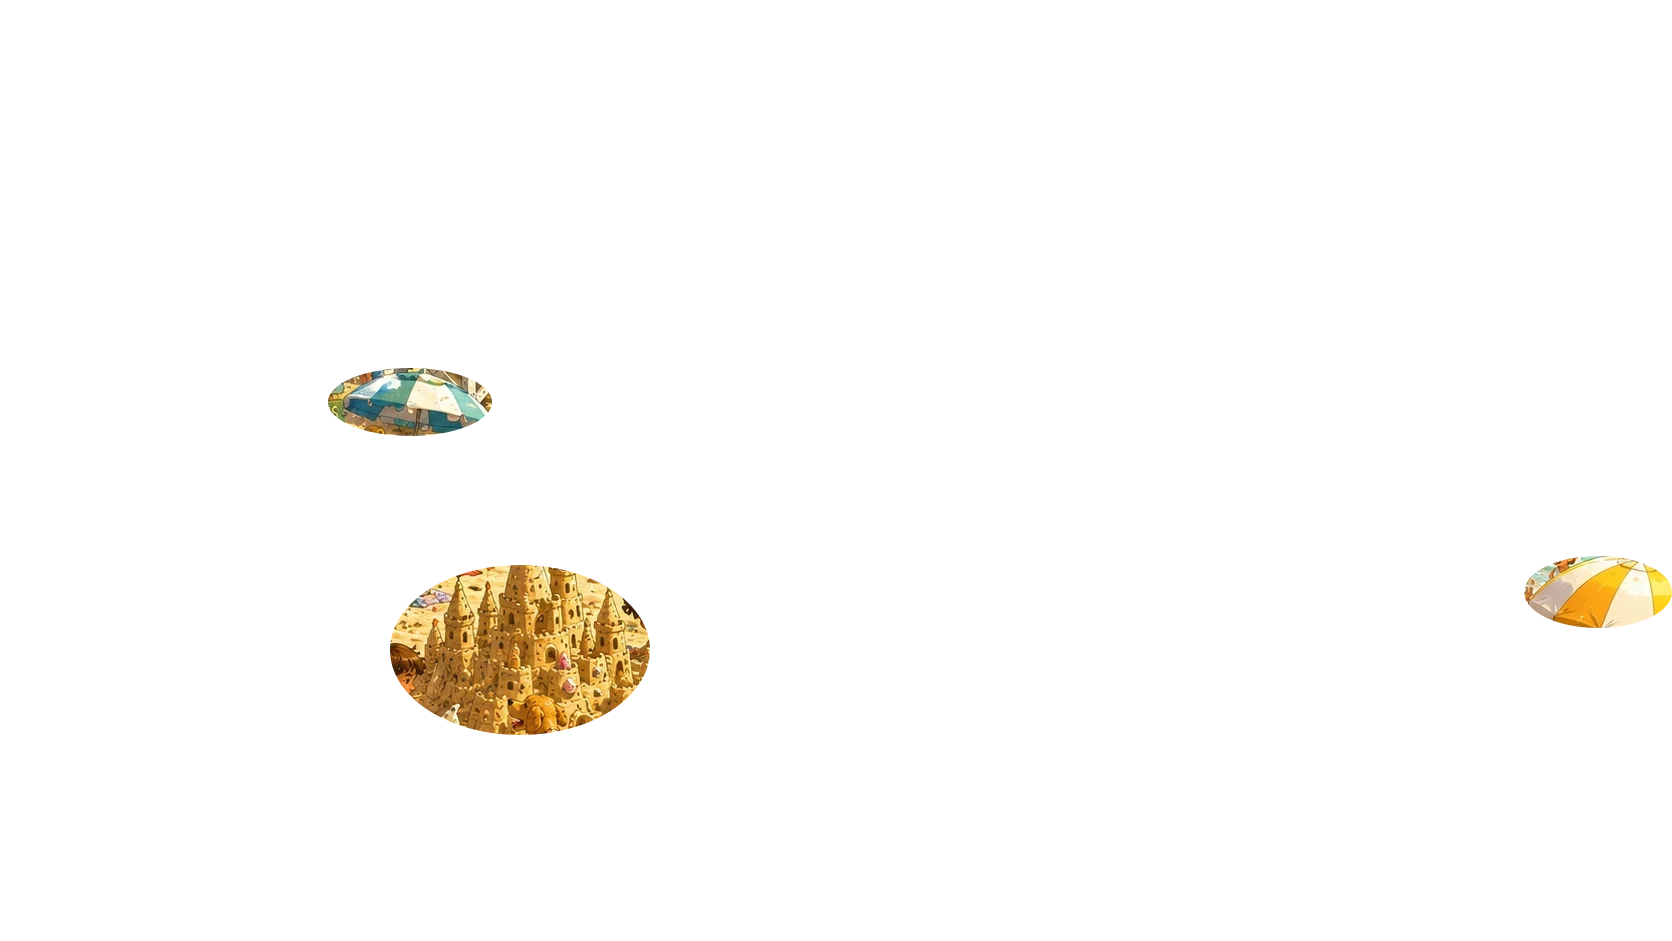
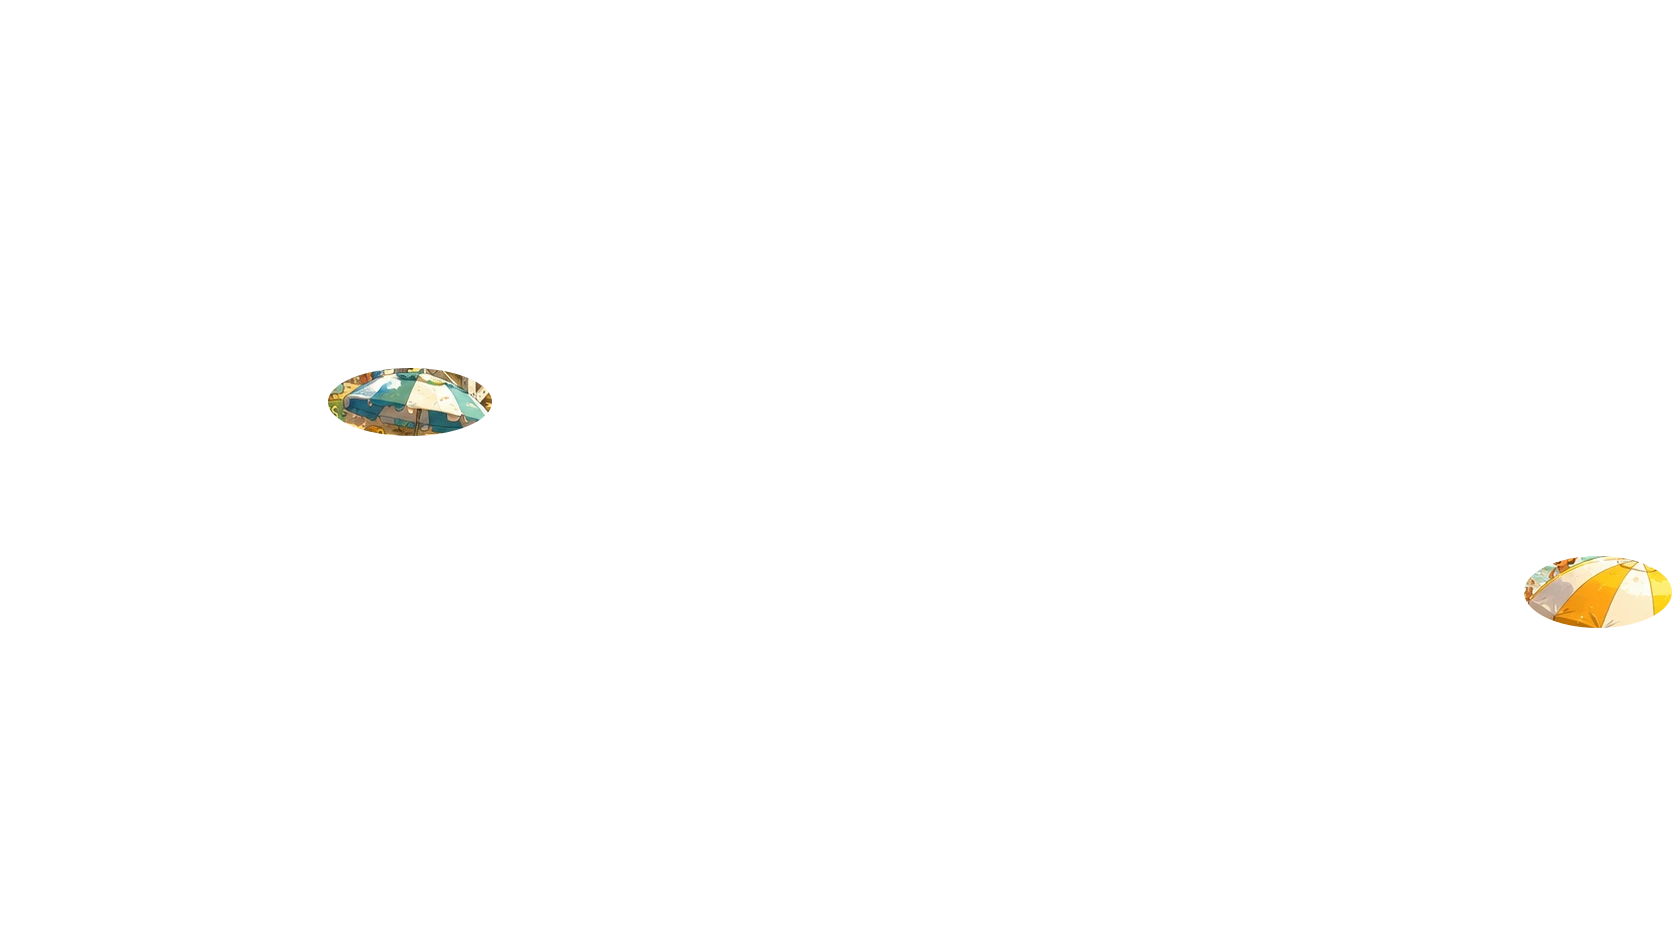
Slot patches: inpaint the child into a context crop of the world and keep only the changed pixels; export/import tool, rect-aware image sprites and renderer, landing reads the patch when present

Changed region(s): [[0.2177, 0.5855, 0.4043, 0.8013]]

diff --git a/scripts/slot-patch.ts b/scripts/slot-patch.ts
@@ -1,0 +1,162 @@
+/**
+ * Slot patches — how a child gets painted INTO a pre-rendered world.
+ *
+ * Backgrounds are rendered once. The only thing generated per child is a small
+ * "patch": the context crop around a hiding slot with the child painted into it
+ * by an image model (inpainting), which we then reduce to the changed pixels
+ * only. Placed back at the same coordinates it blends perfectly — same light,
+ * same style, real occlusion — and it is tiny (one 300–500px image per spot).
+ *
+ *   npx tsx scripts/slot-patch.ts export beach sandcastle A
+ *     → work/patches/beach-sandcastle-A.crop.png   (give this to the image model)
+ *       work/patches/beach-sandcastle-A.mask.png   (where to paint; optional for models that take a mask)
+ *       work/patches/beach-sandcastle-A.json       (rect, slot, prompt)
+ *
+ *   npx tsx scripts/slot-patch.ts import beach sandcastle A path/to/edited.png [--threshold=28] [--feather=6] [--out=public/demo/patches]
+ *     → <out>/beach-sandcastle-A.webp             (transparent patch: only what changed)
+ *       <out>/beach-sandcastle-A.json             (rect in px and in art fractions, slot anchor)
+ *       work/patches/beach-sandcastle-A.preview.png (the patch composited on the world, for a quick look)
+ */
+import sharp from "sharp";
+import { existsSync, mkdirSync, writeFileSync } from "node:fs";
+import path from "node:path";
+
+const ROOT = process.cwd();
+const WORK = path.join(ROOT, "work", "patches");
+
+type Rect = { x: number; y: number; w: number; h: number };
+
+function clamp(n: number, lo: number, hi: number): number {
+  return Math.max(lo, Math.min(hi, n));
+}
+
+function flag(name: string, fallback: string): string {
+  const hit = process.argv.find((a) => a.startsWith(`--${name}=`));
+  return hit ? hit.slice(name.length + 3) : fallback;
+}
+
+async function context(slug: string, targetId: string, variantArg: string | undefined) {
+  const { sceneBySlug } = await import("../src/services/scene-catalog.service");
+  const { BODY_TEMPLATES } = await import("../content/body-templates");
+  const scene = sceneBySlug(slug);
+  const target = scene.targets.find((t) => t.id === targetId);
+  if (!target) throw new Error(`unknown target "${targetId}" in "${slug}" (have: ${scene.targets.map((t) => t.id).join(", ")})`);
+  const variant = (variantArg ?? "A").toUpperCase() === "B" ? "B" : "A";
+  const slot = target.slots[variant === "A" ? 0 : 1] ?? target.slots[0];
+  if (!slot) throw new Error("target has no slots");
+  const W = scene.art.width;
+  const H = scene.art.height;
+  // Context window: ~7× the child's height, square, multiple of 8, clamped to the art.
+  const size = Math.min(W, H, Math.round(clamp(slot.scale * H * 7, 384, 768) / 8) * 8);
+  const rect: Rect = { x: clamp(Math.round(slot.x * W - size / 2), 0, W - size), y: clamp(Math.round(slot.y * H - size / 2), 0, H - size), w: size, h: size };
+  const childPx = Math.round(slot.scale * H);
+  const template = BODY_TEMPLATES[target.bodyTemplate];
+  const mission = target.mission.en.replace("{name}", "the child");
+  const prompt = [
+    `Paint one child into this illustration, in exactly the same style, colours, line quality and warm daylight as the picture (storybook collage).`,
+    `Use the attached character reference for the child (same face, hair, hat and outfit).`,
+    `Situation: ${mission}${template ? ` (${template.label.en})` : ""}.`,
+    `Place the child inside the white area of the mask, about ${childPx}px tall so they match the people nearby, partly hidden by whatever is naturally in front, with a soft matching shadow.`,
+    `The child should be findable but not the centre of attention. Keep every other pixel of the scene unchanged.`,
+  ].join(" ");
+  return { scene, target, variant, slot, W, H, rect, childPx, prompt, name: `${slug}-${targetId}-${variant}` };
+}
+
+async function exportCrop(slug: string, targetId: string, variantArg?: string) {
+  const c = await context(slug, targetId, variantArg);
+  mkdirSync(WORK, { recursive: true });
+  const base = path.join(ROOT, "public", c.scene.art.base);
+  await sharp(base).extract({ left: c.rect.x, top: c.rect.y, width: c.rect.w, height: c.rect.h }).png().toFile(path.join(WORK, `${c.name}.crop.png`));
+  const cx = c.slot.x * c.W - c.rect.x;
+  const cy = c.slot.y * c.H - c.rect.y;
+  const rx = Math.round(c.childPx * 0.55);
+  const ry = Math.round(c.childPx * 0.8);
+  const mask = Buffer.from(`<svg xmlns="http://www.w3.org/2000/svg" width="${c.rect.w}" height="${c.rect.h}"><rect width="100%" height="100%" fill="#000"/><ellipse cx="${cx}" cy="${cy}" rx="${rx}" ry="${ry}" fill="#fff"/></svg>`);
+  await sharp(mask).png().toFile(path.join(WORK, `${c.name}.mask.png`));
+  const meta = { slug, targetId, variant: c.variant, slot: { x: c.slot.x, y: c.slot.y, scale: c.slot.scale, layer: c.slot.layer ?? "front", flip: Boolean(c.slot.flip) }, rect: c.rect, art: { width: c.W, height: c.H }, childPx: c.childPx, prompt: c.prompt };
+  writeFileSync(path.join(WORK, `${c.name}.json`), JSON.stringify(meta, null, 2));
+  console.log(`exported ${c.name}: crop ${c.rect.w}×${c.rect.h} at (${c.rect.x},${c.rect.y}); child ≈ ${c.childPx}px tall`);
+  console.log(`\nPrompt:\n${c.prompt}\n`);
+  console.log(`Files: work/patches/${c.name}.crop.png  work/patches/${c.name}.mask.png`);
+}
+
+async function importPatch(slug: string, targetId: string, variantArg: string | undefined, editedPath: string) {
+  const c = await context(slug, targetId, variantArg);
+  const threshold = Number(flag("threshold", "28"));
+  const feather = Number(flag("feather", "6"));
+  const outDir = path.join(ROOT, flag("out", "public/demo/patches"));
+  mkdirSync(outDir, { recursive: true });
+  mkdirSync(WORK, { recursive: true });
+  const base = path.join(ROOT, "public", c.scene.art.base);
+  const original = await sharp(base).extract({ left: c.rect.x, top: c.rect.y, width: c.rect.w, height: c.rect.h }).removeAlpha().raw().toBuffer();
+  const edited = await sharp(editedPath).resize({ width: c.rect.w, height: c.rect.h, fit: "cover" }).removeAlpha().raw().toBuffer({ resolveWithObject: true });
+  const n = c.rect.w * c.rect.h;
+  // 1. Changed pixels (max channel difference above the threshold).
+  const diff = Buffer.alloc(n);
+  for (let i = 0; i < n; i++) {
+    const d = Math.max(Math.abs(edited.data[i * 3]! - original[i * 3]!), Math.abs(edited.data[i * 3 + 1]! - original[i * 3 + 1]!), Math.abs(edited.data[i * 3 + 2]! - original[i * 3 + 2]!));
+    diff[i] = d > threshold ? 255 : 0;
+  }
+  const rawMask = { raw: { width: c.rect.w, height: c.rect.h, channels: 1 as const } };
+  // 2. Open (erode → dilate) to drop compression speckle, then feather the edge.
+  //    sharp applies operations in a fixed order per pipeline, so each step is its own pass.
+  //    (blur promotes a single band to sRGB, so every pass is forced back to one channel.)
+  const step = async (buf: Buffer, apply: (s: sharp.Sharp) => sharp.Sharp) => apply(sharp(buf, rawMask)).extractChannel(0).raw().toBuffer();
+  let cleaned = await step(diff, (s) => s.blur(2));
+  cleaned = await step(cleaned, (s) => s.threshold(150));
+  cleaned = await step(cleaned, (s) => s.blur(3));
+  cleaned = await step(cleaned, (s) => s.threshold(60));
+  cleaned = await step(cleaned, (s) => s.blur(feather));
+  // 3. Bounding box of the kept pixels (+ margin) so the patch stays small.
+  let minX = c.rect.w, minY = c.rect.h, maxX = -1, maxY = -1;
+  for (let i = 0; i < n; i++) {
+    if (cleaned[i]! > 8) {
+      const x = i % c.rect.w;
+      const y = Math.floor(i / c.rect.w);
+      if (x < minX) minX = x;
+      if (x > maxX) maxX = x;
+      if (y < minY) minY = y;
+      if (y > maxY) maxY = y;
+    }
+  }
+  if (maxX < 0) throw new Error("no changed pixels found — is this the edited version of the exported crop?");
+  const m = 8;
+  const box = { left: Math.max(0, minX - m), top: Math.max(0, minY - m), width: Math.min(c.rect.w, maxX + m + 1) - Math.max(0, minX - m), height: Math.min(c.rect.h, maxY + m + 1) - Math.max(0, minY - m) };
+  const rgba = await sharp(edited.data, { raw: { width: c.rect.w, height: c.rect.h, channels: 3 } }).joinChannel(cleaned, rawMask).png().toBuffer();
+  const patch = await sharp(rgba).extract(box).webp({ quality: 92, alphaQuality: 100 }).toBuffer();
+  const patchPath = path.join(outDir, `${c.name}.webp`);
+  writeFileSync(patchPath, patch);
+  const rect: Rect = { x: c.rect.x + box.left, y: c.rect.y + box.top, w: box.width, h: box.height };
+  const meta = {
+    slug,
+    targetId,
+    variant: c.variant,
+    url: `/${path.relative(path.join(ROOT, "public"), patchPath).split(path.sep).join("/")}`,
+    rect,
+    rectNorm: { x: rect.x / c.W, y: rect.y / c.H, w: rect.w / c.W, h: rect.h / c.H },
+    slot: { x: c.slot.x, y: c.slot.y, scale: c.slot.scale },
+    art: { width: c.W, height: c.H },
+  };
+  writeFileSync(path.join(outDir, `${c.name}.json`), JSON.stringify(meta, null, 2));
+  const preview = await sharp(base).composite([{ input: patch, left: rect.x, top: rect.y }]).png().toBuffer();
+  await sharp(preview).extract({ left: c.rect.x, top: c.rect.y, width: c.rect.w, height: c.rect.h }).png().toFile(path.join(WORK, `${c.name}.preview.png`));
+  console.log(`imported ${c.name}: patch ${rect.w}×${rect.h} at (${rect.x},${rect.y}) → ${meta.url}`);
+  console.log(`preview: work/patches/${c.name}.preview.png`);
+}
+
+async function main() {
+  const [cmd, slug, targetId, variant, edited] = process.argv.slice(2).filter((a) => !a.startsWith("--"));
+  if (cmd === "export" && slug && targetId) return exportCrop(slug, targetId, variant);
+  if (cmd === "import" && slug && targetId && variant && edited) return importPatch(slug, targetId, variant, edited);
+  console.error("usage:\n  slot-patch export <slug> <targetId> [A|B]\n  slot-patch import <slug> <targetId> <A|B> <edited.png> [--threshold=28] [--feather=6] [--out=public/demo/patches]");
+  process.exit(1);
+}
+
+main()
+  .then(() => process.exit(0))
+  .catch((e) => {
+    console.error(e);
+    process.exit(1);
+  });
+
+export {};

diff --git a/src/app/home/Transformation.tsx b/src/app/home/Transformation.tsx
@@ -1,4 +1,4 @@
-import { existsSync } from "node:fs";
+import { existsSync, readFileSync } from "node:fs";
 import path from "node:path";
 import Link from "next/link";
 import { BODY_TEMPLATES } from "../../../content/body-templates";
@@ -28,7 +28,17 @@ const DEMO_TEMPLATE = "beach_float";
  */
 const WORLD_ASPECT = 4 / 5;
 const WORLD_POS_X = 0.2;
-const WORLD_SPOT = { x: 0.257, y: 0.62, height: 0.072 };
+/** Slot patch for the example (docs/SPRITE_PATCHES.md): produced by `slot-patch import beach sandcastle A`. */
+const PATCH_META = path.join(process.cwd(), "public", "demo", "patches", "beach-sandcastle-A.json");
+type PatchMeta = { url: string; rect: { x: number; y: number; w: number; h: number }; slot: { x: number; y: number; scale: number }; art: { width: number; height: number } };
+function readPatch(): PatchMeta | null {
+  if (!existsSync(PATCH_META)) return null;
+  try {
+    return JSON.parse(readFileSync(PATCH_META, "utf-8")) as PatchMeta;
+  } catch {
+    return null;
+  }
+}
 
 /**
  * "From photo to character": photo → the illustrated character → that character
@@ -44,7 +54,10 @@ export async function Transformation() {
   const foundLine = castleTarget?.success[0] ? pick(castleTarget.success[0], locale) : t.home.hero.found;
   const visibleW = beach.art.height * WORLD_ASPECT;
   const windowLeft = (beach.art.width - visibleW) * WORLD_POS_X;
-  const spotStyle = { left: `${((WORLD_SPOT.x * beach.art.width - windowLeft) / visibleW) * 100}%`, top: `${WORLD_SPOT.y * 100}%`, height: `${WORLD_SPOT.height * 100}%` };
+  const patch = readPatch();
+  const pct = (px: number) => `${((px - windowLeft) / visibleW) * 100}%`;
+  const patchStyle = patch ? { left: pct(patch.rect.x), top: `${(patch.rect.y / patch.art.height) * 100}%`, width: `${(patch.rect.w / visibleW) * 100}%`, height: `${(patch.rect.h / patch.art.height) * 100}%` } : undefined;
+  const bubbleStyle = patch ? { left: pct(patch.slot.x * patch.art.width), top: `${(patch.slot.y - patch.slot.scale * 0.55) * 100}%` } : undefined;
   const templateLabel = pick(BODY_TEMPLATES[DEMO_TEMPLATE]!.label, locale);
   const hasPhoto = existsSync(PHOTO.file);
   const hasCharacter = existsSync(CHARACTER.file);
@@ -99,13 +112,14 @@ export async function Transformation() {
             <div className="tf-card__media tf-card__media--world" role="img" aria-label={tr.worldAlt}>
               {/* eslint-disable-next-line @next/next/no-img-element */}
               <img src={beach.art.base} alt="" className="tf-world__layer" width={beach.art.width} height={beach.art.height} />
-              <div className={`tf-world__spot${hasCharacter ? " tf-world__spot--art" : ""}`} style={spotStyle}>
-                <span className="tf-world__bubble">{foundLine}</span>
-                {figure("tf-figure tf-figure--found")}
-              </div>
-              {beach.art.foreground ? (
-                // eslint-disable-next-line @next/next/no-img-element
-                <img src={beach.art.foreground} alt="" className="tf-world__layer tf-world__layer--fg" width={beach.art.width} height={beach.art.height} />
+              {patch ? (
+                <>
+                  {/* eslint-disable-next-line @next/next/no-img-element */}
+                  <img src={patch.url} alt="" className="tf-figure tf-figure--found tf-world__patch" style={patchStyle} width={patch.rect.w} height={patch.rect.h} />
+                  <span className="tf-world__bubble tf-world__bubble--free" style={bubbleStyle}>
+                    {foundLine}
+                  </span>
+                </>
               ) : null}
             </div>
             <span className="tf-card__label">{tr.world.label}</span>

diff --git a/src/game/components/SceneViewport.tsx b/src/game/components/SceneViewport.tsx
@@ -122,11 +122,16 @@ export function SceneViewport({ scene, mission, hintLevel, bonusFound, onHit, on
     const justFound = mission.lastFeedback?.kind === "hit" && mission.lastFeedback.targetId === p.target.id;
     const h = p.anchor.scale * stage.height;
     const w = h * spriteAspect(p.target.sprite);
+    const rect = p.target.sprite.kind === "image" ? p.target.sprite.rect : undefined;
+    // A slot patch is a piece of the world painted with the child: draw it exactly where it was cut from.
+    const box = rect
+      ? { left: rect.x * stage.width, top: rect.y * stage.height, width: rect.w * stage.width, height: rect.h * stage.height, zIndex: p.slot.zIndex, transform: p.slot.flip ? "scaleX(-1)" : undefined }
+      : { left: p.anchor.x * stage.width, top: p.anchor.y * stage.height, width: w, height: h, zIndex: p.slot.zIndex, transform: `translate(-50%, -50%) rotate(${p.slot.rotation}deg)${p.slot.flip ? " scaleX(-1)" : ""}` };
     return (
       <div
         key={p.target.id}
         className={`stage__target${found ? " stage__target--found" : ""}`}
-        style={{ left: p.anchor.x * stage.width, top: p.anchor.y * stage.height, width: w, height: h, zIndex: p.slot.zIndex, transform: `translate(-50%, -50%) rotate(${p.slot.rotation}deg)${p.slot.flip ? " scaleX(-1)" : ""}` }}
+        style={box}
         data-target={p.target.id}
       >
         <div className={`tgt-anim${justFound ? ` anim-${p.target.animation}` : ""}`}>

diff --git a/src/app/site.css b/src/app/site.css
@@ -336,7 +336,8 @@
 .tf-tag { position: absolute; bottom: var(--space-2); inset-inline: var(--space-2); display: inline-flex; justify-content: center; align-items: center; min-height: var(--space-4); padding-inline: var(--space-2); border-radius: var(--radius-pill); background: var(--white); box-shadow: var(--shadow-1); font-family: var(--font-display); font-weight: 700; font-size: var(--fs-100); line-height: var(--lh-100); color: var(--ink-2); }
 .tf-card__media--world { background: var(--sea-soft); aspect-ratio: 4 / 5; }
 .tf-world__layer { position: absolute; inset: 0; width: 100%; height: 100%; object-fit: cover; object-position: 20% 50%; }
-.tf-world__layer--fg { z-index: 2; pointer-events: none; }
+.tf-world__patch { position: absolute; z-index: 1; object-fit: fill; }
+.tf-world__bubble--free { bottom: auto; translate: -50% calc(-100% - 6px); z-index: 3; }
 .tf-figure { display: block; }
 .tf-figure--big { width: 44%; max-width: 168px; aspect-ratio: 100 / 140; filter: drop-shadow(0 6px 10px rgba(43, 42, 51, 0.25)); }
 .tf-world__spot { position: absolute; left: 50%; top: 40%; height: 9%; aspect-ratio: 100 / 140; transform: translate(-50%, -50%); z-index: 1; }

diff --git a/src/domain/game/config.ts b/src/domain/game/config.ts
@@ -24,6 +24,12 @@ export const SpriteRefSchema = z.discriminatedUnion("kind", [
     url: z.string().min(1),
     width: z.number().int().positive(),
     height: z.number().int().positive(),
+    /**
+     * Slot patch: the sprite is a piece of the world with the child painted in
+     * (see docs/SPRITE_PATCHES.md). Drawn at this rect (fractions of the art)
+     * instead of the slot anchor; hit-testing still uses the slot footprint.
+     */
+    rect: z.object({ x: z.number().min(0).max(1), y: z.number().min(0).max(1), w: z.number().positive().max(1), h: z.number().positive().max(1) }).optional(),
   }),
 ]);
 export type SpriteRef = z.infer<typeof SpriteRefSchema>;

diff --git a/src/game/components/Sprite.tsx b/src/game/components/Sprite.tsx
@@ -10,6 +10,8 @@ export function Sprite({ sprite, className, title }: { sprite: SpriteRef; classN
   return <ComposedSprite faceUrl={sprite.faceUrl} bodyTemplate={sprite.bodyTemplate} className={className} title={title} />;
 }
 
+/** Aspect of the child's footprint (used for hit-testing and non-patch drawing). A patch hides a child of roughly 3:4. */
 export function spriteAspect(sprite: SpriteRef): number {
-  return sprite.kind === "image" ? sprite.width / sprite.height : 100 / 140;
+  if (sprite.kind === "image") return sprite.rect ? 0.75 : sprite.width / sprite.height;
+  return 100 / 140;
 }

diff --git a/docs/SPRITE_PATCHES.md b/docs/SPRITE_PATCHES.md
@@ -1,0 +1,70 @@
+# Slot patches — painting the child into a pre-rendered world
+
+## The problem
+
+Worlds are illustrated once and never re-rendered. The only thing that changes per game is the child.
+A character rendered on its own (any style, any model) and pasted onto the world never blends: the
+light, the line quality, the palette and, above all, the occlusion are wrong. It always reads as a sticker.
+
+## The idea
+
+Don't render the child in isolation. Render the child **into the world**, but only in a small window:
+
+1. **Context crop.** For every hiding slot (3 per world × 2 variants) cut a square around the slot
+   (~7× the child's height, 384–768px) out of the base art, plus a mask marking where the child goes.
+2. **Inpaint.** Give an image model the crop, the mask, the child's reference (photo or the illustrated
+   character) and a prompt built from the scene data (mission, body template). The model paints the
+   child *in that spot*, in the picture's own style and light, behind whatever is naturally in front.
+3. **Diff to a patch.** Compare the result with the original crop and keep only the changed pixels
+   (threshold → open → feather). What remains is a small transparent image: the child, their shadow,
+   and any object the model redrew in front of them.
+4. **Place.** The patch goes back at the exact same pixel coordinates. Backgrounds stay untouched.
+   The patch is an `image` sprite with a `rect`, so the renderer draws it where it belongs while the
+   hit-test still uses the slot footprint (the child), not the patch.
+
+Because the child is seen small, patches are tiny (a few tens of KB). A whole game is a handful of
+small images — the "sprite sheet of the child in every world" the product needs, produced once.
+
+## Cost
+
+One inpaint call per slot. 3 worlds × 3 spots × 2 variants = 18 calls (54 for 9 worlds).
+Variant B can be generated lazily on the first replay. With a cheap inpainting model
+(Flux Fill / SDXL-inpaint class, ~$0.005–0.02 per call) a 3-world game costs $0.10–0.40 to
+generate, well inside the ~25% margin target. The face sticker (avatar) stays a single generation
+that seeds every patch with the same likeness.
+
+## Tooling (today: manual, with the image model in chat)
+
+```bash
+# 1. export the crop + mask + prompt for a slot
+npx tsx scripts/slot-patch.ts export beach sandcastle A
+#    → work/patches/beach-sandcastle-A.crop.png / .mask.png / .json (the prompt is printed)
+
+# 2. generate: give the model the crop, the mask, the character reference and the prompt.
+#    Ask for the SAME size image back; only the masked area should change.
+
+# 3. import the edited crop → transparent patch + rect JSON (+ a preview on the world)
+npx tsx scripts/slot-patch.ts import beach sandcastle A path/to/edited.png
+#    → public/demo/patches/beach-sandcastle-A.webp + .json, work/patches/...preview.png
+```
+
+The landing page's "From photo to character" section reads `public/demo/patches/beach-sandcastle-A.json`
+automatically: once the patch exists, the world card shows the character painted into the beach,
+glowing, with the speech bubble anchored at the slot. Without it, the card shows the world alone.
+
+## Production pipeline (when a real generation provider is wired)
+
+`GenerationProvider.generateTargetSprite()` receives `{ scene, target, slot, contextCrop, mask, avatar, prompt }`
+and returns the edited crop. `runGenerationPipeline` then runs the same diff step (shared with the
+script), stores the patch as a `GAME` asset and writes the sprite as
+`{ kind: "image", url, width, height, rect: { x, y, w, h } }` (fractions of the art) into the config.
+QA in `/admin` shows the patch on the world exactly as the player sees it; "regenerate" re-runs one slot.
+
+## Rules that keep it excellent
+
+- The context crop must include the objects that will occlude the child (castle, parasol, rock): the
+  model needs to see them to paint the child behind them.
+- Ask the model to keep the child *small like the people nearby*; the prompt states the pixel height.
+- Never let the model touch pixels outside the mask; the diff step throws away tiny drift anyway,
+  but big drift (a re-rendered crop) produces a patch as large as the crop.
+- Keep `slot.scale` honest — it drives the crop size, the mask, the prompt and the hit-test.

diff --git a/docs/SCENE_AUTHORING.md b/docs/SCENE_AUTHORING.md
@@ -68,3 +68,7 @@
 ## 4. תשעת העולמות
 
 `beach` פעיל עם ארט אמיתי (`draft`, 1672×941, `assets/Beach.png` → `public/scenes/beach/base.webp`; ה־foreground הוא שני כיסויי שמשייה שנחתכו מאותה תמונה, כך שהדמות מציצה מאחוריהן). `jungle`, `space` פעילים עם placeholder. `city`, `ship`, `stadium`, `market`, `park`, `volcano` מוגדרים במלואם לפי האפיון (משימות, אינטראקציות, חגיגה, פריט) ומצביעים על `/scenes/_placeholder/` — כשמגיע ארט: מחליפים נתיבים, מכיילים סלוטים, `active: true`.
+
+## Painting the child into a world
+
+See `docs/SPRITE_PATCHES.md`: per-slot context crops, inpainting, and the `scripts/slot-patch.ts` export/import tool.
